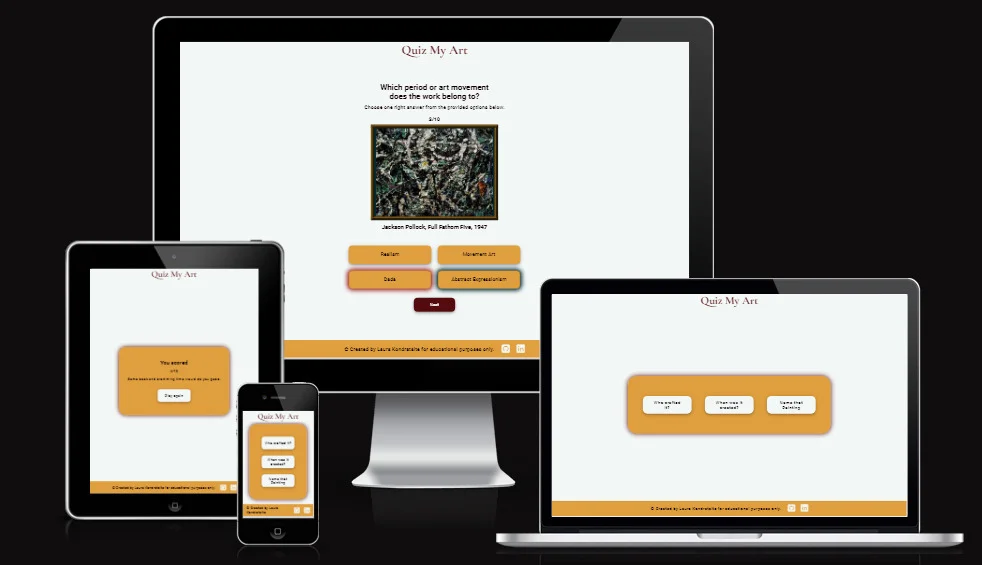
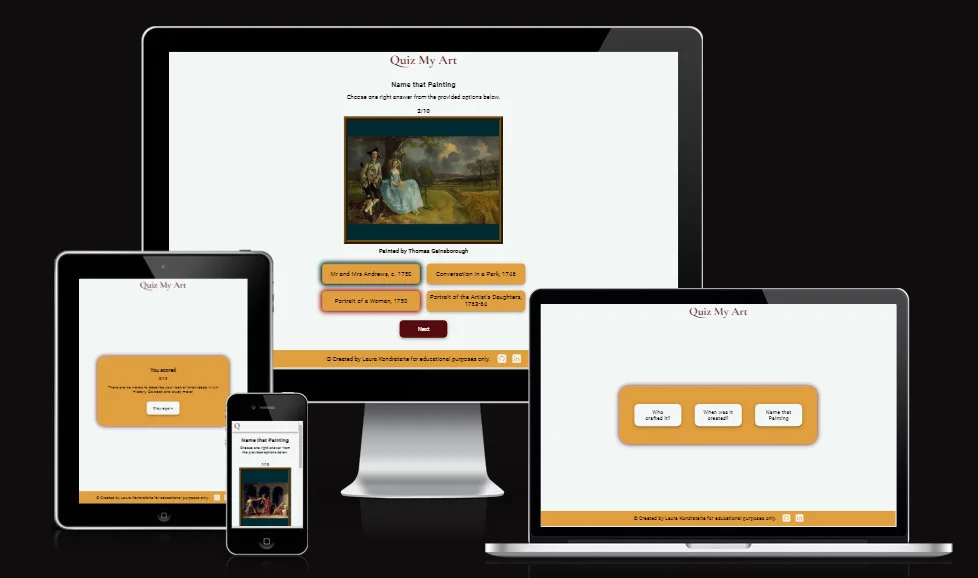
readme(add am I responsive image)

Changed region(s): [[0.0307, 0.0301, 0.9816, 0.9929], [0.6135, 0.6619, 0.8589, 0.7823]]

diff --git a/README.md b/README.md
@@ -2,7 +2,7 @@
 
 (By Laura Kondrataite)
 
-![Quiz My Art responsiveness on various screens](link)
+![Quiz My Art responsiveness on various screens](assets/documentation/features-images/am-i-responsive.webp)
 
 Quiz My Art is an interactive quiz website that tests the user's art history knowledge. It is an image-based quiz which provides a more engaging and visual appeal to the user.
 
